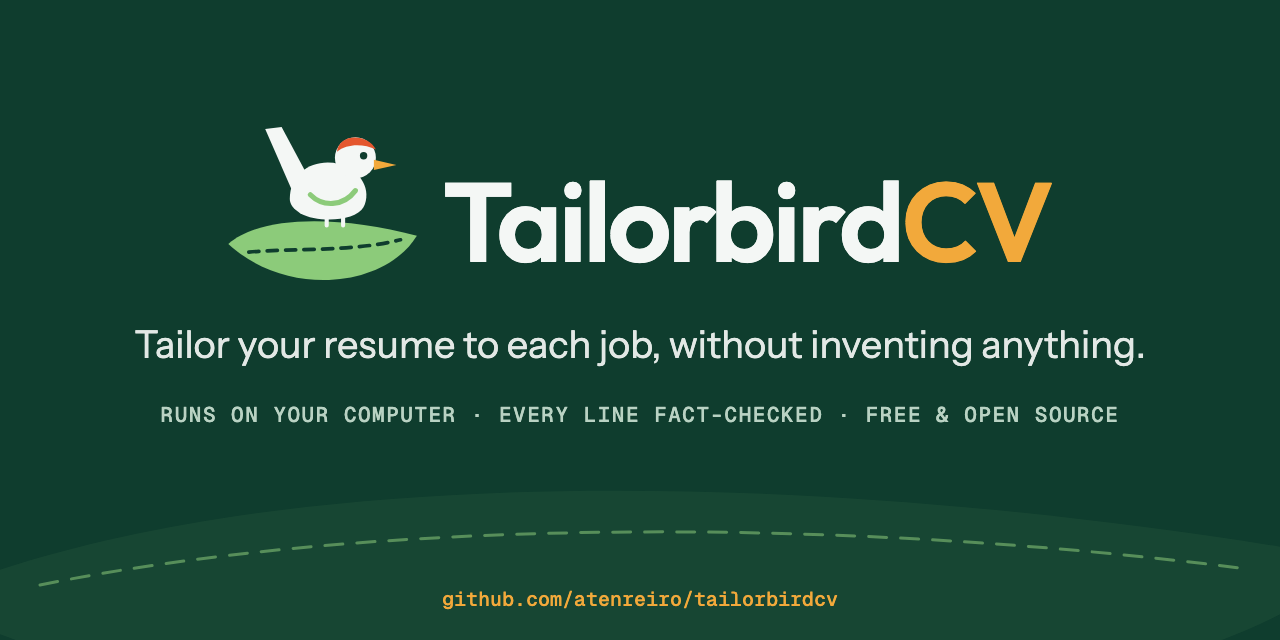
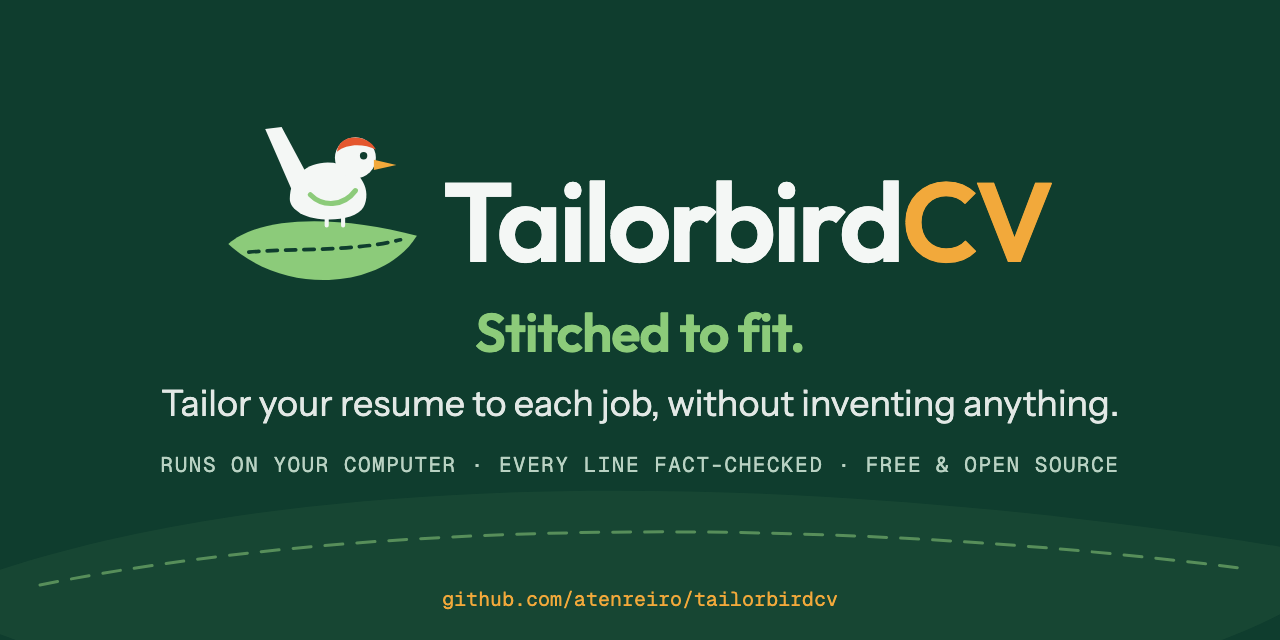
Slogan "Stitched to fit." in the README and social preview

diff --git a/docs/brand/logo.md b/docs/brand/logo.md
@@ -14,7 +14,7 @@ Brand assets for TailorbirdCV (tool that tailors a master CV to each job descrip
 
 A tailorbird (Orthotomus) perched on a leaf. Tailorbirds sew leaves together with plant fibre to build their nests, so the leaf carries a dashed running stitch. Metaphor: stitching one master CV into a custom fit for each role.
 
-Slogan candidate: "Stitched to fit."
+Slogan: "Stitched to fit." Used under the logo in the README and on the social preview (Outfit 600, leaf green `#8CCB7A` on deep green).
 
 ## Mark description
 

diff --git a/README.md b/README.md
@@ -1,4 +1,5 @@
 <p align="center"><picture><source media="(prefers-color-scheme: dark)" srcset="docs/logo-dark.png"><img src="docs/logo.png" alt="TailorbirdCV" width="420"></picture></p>
+<p align="center"><em>Stitched to fit.</em></p>
 
 # TailorbirdCV
 
